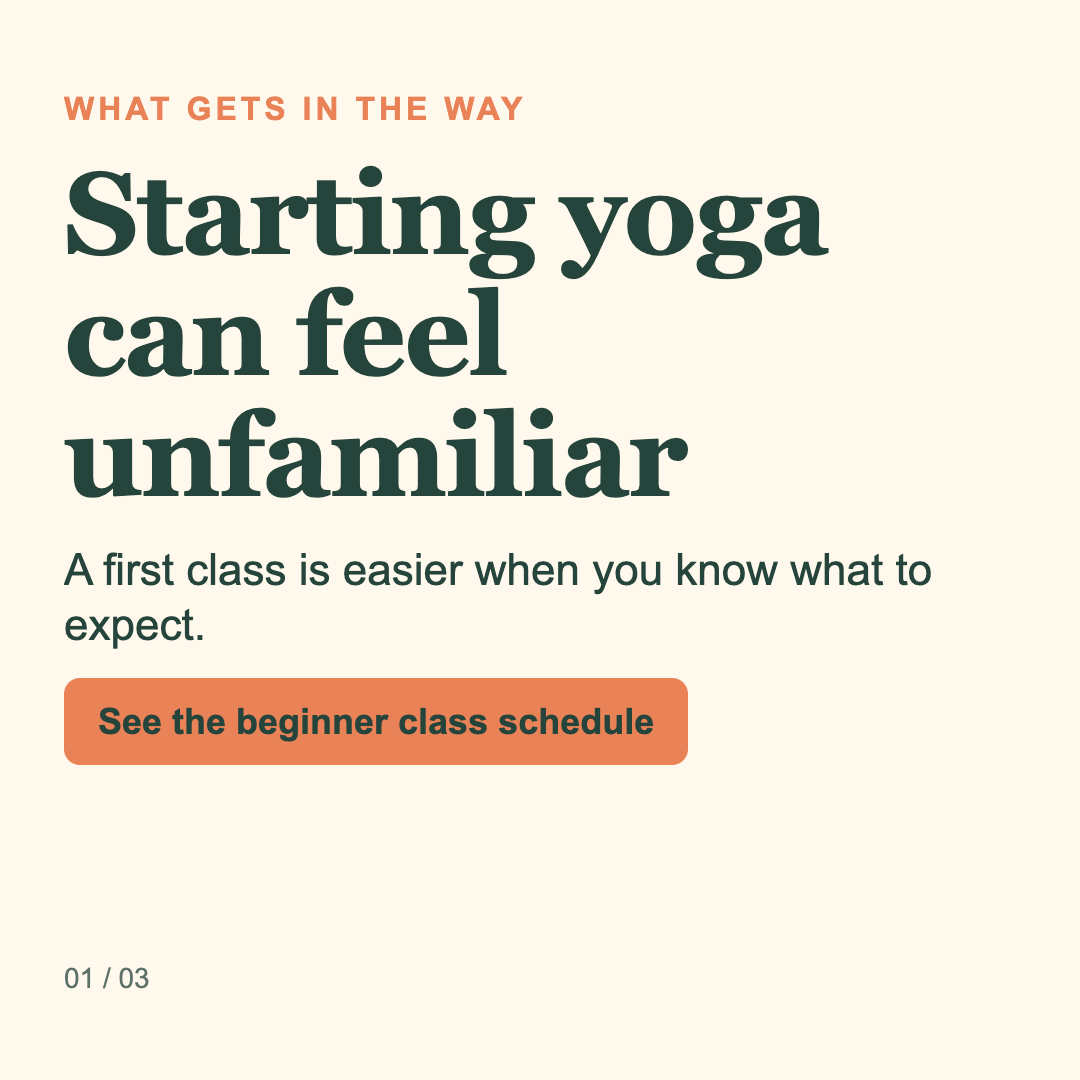
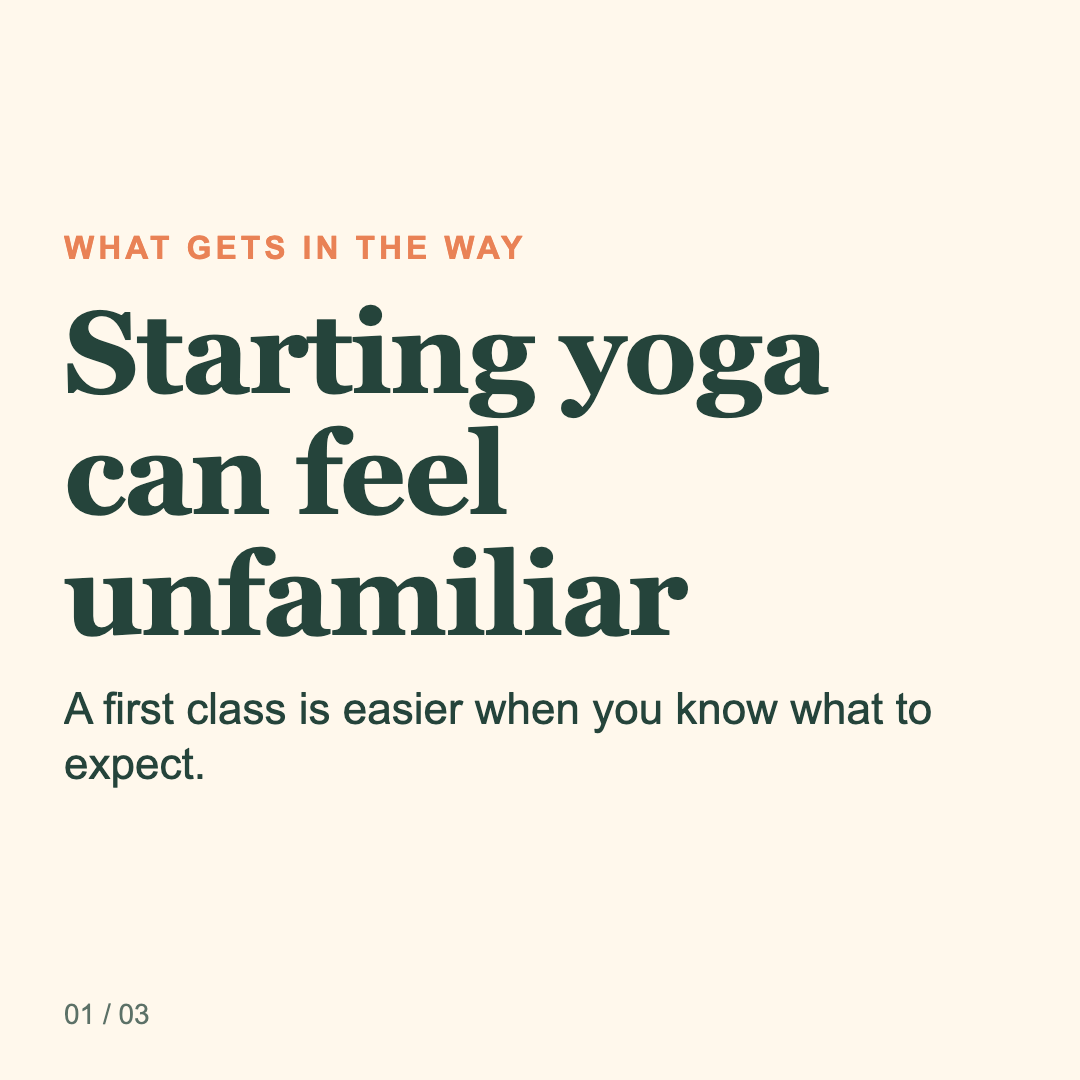
All Sorted Content Studio 1.0.1
Carousel content centered in the safe area, slide counter pinned to the bottom, CTA button on the last slide only by default (showCta to opt in). Every tool list now names all five tools.

diff --git a/tools/carousel-builder/lib/slide-renderer.js b/tools/carousel-builder/lib/slide-renderer.js
@@ -23,18 +23,22 @@ function slideMarkup(slide, index, total, preset, palette) {
   const accent = safeCss(theme.accent, DEFAULTS.accent);
   const display = safeCss(theme.fonts?.display, DEFAULTS.display);
   const body = safeCss(theme.fonts?.body, DEFAULTS.body);
+  const safeTop = preset.safeTop ? Math.round(preset.safeTop * preset.height) : 90;
+  const safeBottom = preset.safeBottom ? Math.round(preset.safeBottom * preset.height) : 150;
   const eyebrow = slide.eyebrow || slide.stepLabel || `IDEA ${String(index + 1).padStart(2, '0')}`;
   const headline = slide.headline || slide.heading || `Slide ${index + 1}`;
-  const cta = slide.cta || 'Learn more';
+  const showCta = slide.showCta === true || (slide.showCta !== false && index === total - 1);
+  const cta = showCta ? (slide.cta || 'Learn more') : '';
   return `<!doctype html><html><head><meta charset="utf-8"><style>
   *{box-sizing:border-box}html,body{margin:0;width:${preset.width}px;height:${preset.height}px;overflow:hidden}
-  #canvas{width:100%;height:100%;padding:90px 64px 84px;display:flex;flex-direction:column;align-items:flex-start;justify-content:center;gap:26px;overflow:hidden;background:linear-gradient(140deg,${background},${background});color:${ink};font-family:${body},sans-serif}
+  #canvas{position:relative;width:100%;height:100%;padding:90px 64px 150px;display:flex;flex-direction:column;align-items:flex-start;justify-content:center;gap:26px;overflow:hidden;background:linear-gradient(140deg,${background},${background});color:${ink};font-family:${body},sans-serif}
+  #content{position:absolute;left:64px;right:64px;top:${safeTop}px;bottom:${safeBottom}px;display:flex;flex-direction:column;align-items:flex-start;justify-content:center;gap:26px;overflow:hidden}
   #eyebrow{max-width:900px;color:${accent};font:700 32px/1.2 ${body},sans-serif;letter-spacing:4px;overflow-wrap:anywhere}
   #headline{max-width:900px;max-height:420px;overflow:hidden;font:700 ${START_HEADLINE_SIZE}px/1.04 ${display},serif;letter-spacing:-2px;overflow-wrap:anywhere}
   #body{max-width:900px;max-height:240px;overflow:hidden;font:400 44px/1.25 ${body},sans-serif;white-space:pre-line;overflow-wrap:anywhere}
   #cta{display:inline-block;background:${accent};color:${ink};border:2px solid ${accent};border-radius:16px;padding:20px 32px;font:700 36px/1.2 ${body},sans-serif;max-width:900px;overflow-wrap:anywhere}
-  #counter{margin-top:auto;color:${ink};font:400 28px/1.2 ${body},sans-serif;opacity:.75}
-  </style></head><body><main id="canvas"><div id="eyebrow">${escapeHtml(eyebrow)}</div><div id="headline">${escapeHtml(headline)}</div><div id="body">${escapeHtml(slide.body || '')}</div>${cta ? `<div id="cta">${escapeHtml(cta)}</div>` : ''}<div id="counter">${String(index + 1).padStart(2, '0')} / ${String(total).padStart(2, '0')}</div></main></body></html>`;
+  #counter{position:absolute;left:64px;right:64px;bottom:48px;color:${ink};font:400 28px/1.2 ${body},sans-serif;opacity:.75}
+  </style></head><body><main id="canvas"><section id="content"><div id="eyebrow">${escapeHtml(eyebrow)}</div><div id="headline">${escapeHtml(headline)}</div><div id="body">${escapeHtml(slide.body || '')}</div>${cta ? `<div id="cta">${escapeHtml(cta)}</div>` : ''}</section><div id="counter">${String(index + 1).padStart(2, '0')} / ${String(total).padStart(2, '0')}</div></main></body></html>`;
 }
 
 async function renderSlides(slides, preset, palette, sharedBrowser = null) {
@@ -52,13 +56,17 @@ async function renderSlides(slides, preset, palette, sharedBrowser = null) {
           if (headline.scrollWidth <= headline.clientWidth + 1 && headline.scrollHeight <= headline.clientHeight + 4) break;
         }
         const elements = {};
-        for (const name of ['eyebrow', 'headline', 'body', 'cta', 'counter']) {
+        for (const name of ['content', 'eyebrow', 'headline', 'body', 'cta', 'counter']) {
           const element = document.querySelector(`#${name}`);
           if (!element) continue;
           const rect = element.getBoundingClientRect();
           const canvasRect = canvas.getBoundingClientRect();
           elements[name] = { x: Math.round(rect.x - canvasRect.x), y: Math.round(rect.y - canvasRect.y), width: Math.round(rect.width), height: Math.round(rect.height), scrollWidth: element.scrollWidth, scrollHeight: element.scrollHeight, clientWidth: element.clientWidth, clientHeight: element.clientHeight, fontSize: parseFloat(getComputedStyle(element).fontSize), background: getComputedStyle(element).backgroundColor, border: getComputedStyle(element).borderTopWidth };
         }
+        const children = [...document.querySelector('#content').children].map((element) => element.getBoundingClientRect());
+        const groupTop = Math.min(...children.map((rect) => rect.top)) - canvas.getBoundingClientRect().top;
+        const groupBottom = Math.max(...children.map((rect) => rect.bottom)) - canvas.getBoundingClientRect().top;
+        elements.contentGroup = { y: Math.round(groupTop), height: Math.round(groupBottom - groupTop), centerY: (groupTop + groupBottom) / 2 };
         const overflow = {};
         for (const [name, value] of Object.entries(elements)) overflow[name] = value.scrollWidth > value.clientWidth + 1 || value.scrollHeight > value.clientHeight + 4 || value.x < 64 || value.x + value.width > canvas.clientWidth - 64 || value.y < 0 || value.y + value.height > canvas.clientHeight;
         const textNames = Object.keys(elements).filter((name) => ['eyebrow', 'headline', 'body', 'cta'].includes(name));

diff --git a/tools/carousel-builder/tests/core.test.js b/tools/carousel-builder/tests/core.test.js
@@ -16,7 +16,7 @@ async function launchBrowser() { for(const executablePath of browserPaths()){try
 const { PRESETS, appendManifest, makeSpec } = require('../lib/core');
 const { renderSlides, slideMarkup } = require('../lib/slide-renderer');
 
-const testRoot = path.join(__dirname, '..', 'workspace', '.test-data');
+const testRoot = path.join(__dirname, '..', '..', '..', '.test-data', 'carousel-builder');
 
 test('Meta presets use the required pixel dimensions and safe zones', () => {
   assert.deepEqual([PRESETS.square.width, PRESETS.square.height], [1080, 1080]);
@@ -36,10 +36,18 @@ test('carousel CSS uses brand colors and fonts without an off-brand gradient', (
   assert.match(html,/font:700 120px\/1\.04 Georgia,serif/);
   assert.match(html,/font:400 44px\/1\.25 Arial,sans-serif/);
 });
+test('CTA appears on the last slide by default and earlier slides can opt in', () => {
+  const first = slideMarkup({ headline: 'First', cta: 'Book now' }, 0, 3, PRESETS.square, 'ocean');
+  const optedIn = slideMarkup({ headline: 'Second', cta: 'Book now', showCta: true }, 1, 3, PRESETS.square, 'ocean');
+  const last = slideMarkup({ headline: 'Last', cta: 'Book now' }, 2, 3, PRESETS.square, 'ocean');
+  assert.doesNotMatch(first, /id="cta"/);
+  assert.match(optedIn, /id="cta">Book now/);
+  assert.match(last, /id="cta">Book now/);
+});
 test('rendered slides meet the phone legibility floors and stay within measured safe boxes', async () => {
   const slides = [
     { stepLabel: 'A BETTER WAY', heading: 'Small steps make mornings easier', body: 'Choose one part of your morning to make easier.', cta: 'Book a class' },
-    { stepLabel: 'ONE PRACTICE', heading: 'Make room for a slower start', body: 'Pick one change you can repeat tomorrow.', cta: 'Book a class' },
+    { stepLabel: 'ONE PRACTICE', heading: 'Make room for a slower start', body: 'Pick one change you can repeat tomorrow.', cta: 'Book a class', showCta: true },
     { stepLabel: 'THE OUTCOME', heading: 'Begin with one gentle class', body: 'Try one class before changing your whole routine.', cta: 'Book a class' },
   ];
   const browser = await launchBrowser();
@@ -59,12 +67,16 @@ test('rendered slides meet the phone legibility floors and stay within measured 
     assert.ok(result.headlineFontSize >= 72 && result.headlineFontSize <= 120);
     assert.ok(result.elements.headline.fontSize >= 72);
     assert.ok(result.elements.body.fontSize >= 44);
-    assert.ok(result.elements.cta.background !== 'rgba(0, 0, 0, 0)');
+    assert.ok(result.elements.content);
+    assert.ok(Math.abs(result.elements.contentGroup.centerY - 510) <= 1);
+    assert.equal(Boolean(result.elements.cta), result === rendered[1] || result === rendered[2]);
+    if (result.elements.cta) assert.ok(result.elements.cta.background !== 'rgba(0, 0, 0, 0)');
     assert.equal(result.overflow.textOverlap, false);
     assert.ok(result.elements.eyebrow.fontSize >= 32);
     assert.ok(result.elements.counter.fontSize >= 28);
+    assert.equal(result.elements.counter.y + result.elements.counter.height, 1032);
     assert.deepEqual(Object.values(result.overflow).filter(Boolean), []);
-    for (const name of ['eyebrow', 'headline', 'body', 'cta', 'counter']) {
+    for (const name of ['eyebrow', 'headline', 'body', 'counter', ...(result.elements.cta ? ['cta'] : [])]) {
       const box = result.elements[name];
       assert.ok(box.x >= 64 && box.x + box.width <= 1016, `${name} remains inside 64px safe margins`);
       assert.ok(box.scrollWidth <= box.clientWidth && box.scrollHeight <= box.clientHeight + 4, `${name} fits its measured client box`);

diff --git a/tools/carousel-builder/tests/browser-proof.js b/tools/carousel-builder/tests/browser-proof.js
@@ -48,11 +48,11 @@ async function main() {
     if (rejected.status !== 500 || !/Please shorten the headline\./.test(rejected.body.error || '')) throw new Error(`Overflow export did not fail with the required message: ${JSON.stringify(rejected)}`);
     await page.getByRole('button', { name: /Export PNGs/ }).click();
     await page.getByText(/Slides exported at 1080 × 1080/).waitFor();
-    const manifestPath = path.join(root, 'workspace/creatives/manifest.json');
+    const manifestPath = path.join(process.env.CAROUSEL_WORKSPACE || path.join(root, '.test-data/browser-workspace'), 'creatives/manifest.json');
     const manifest = JSON.parse(await fs.readFile(manifestPath, 'utf8'));
     const specLink = page.locator('a[download]').getAttribute('href');
     const specHref = await specLink;
-    const specPath = path.join(root, decodeURIComponent(new URL(specHref, base).pathname.replace(/^\/workspace\//, 'workspace/')));
+    const specPath = path.join(process.env.CAROUSEL_WORKSPACE || path.join(root, '.test-data/browser-workspace'), 'creatives', path.basename(decodeURIComponent(new URL(specHref, base).pathname)));
     const spec = JSON.parse(await fs.readFile(specPath, 'utf8'));
     if (spec.cards.length !== 3) throw new Error(`Expected 3 cards, found ${spec.cards.length}`);
     if (manifest.files.length < 3) throw new Error('The manifest does not contain the three exported slides.');
@@ -63,9 +63,11 @@ async function main() {
     }
     const proofEntries = manifest.files.filter(entry => exported.some(file => path.basename(file) === entry.file)).slice(-3);
     if (proofEntries.length !== 3) throw new Error('The manifest is missing per-slide measurement records.');
-    for (const entry of proofEntries) {
+    for (const [index, entry] of proofEntries.entries()) {
       if (entry.fontSize < 72 || entry.fontSize > 120 || entry.minFontSize !== 72) throw new Error(`${entry.file} has an invalid headline size floor.`);
       if (entry.measurements.headline.fontSize !== entry.fontSize || entry.measurements.body.fontSize < 44 || entry.measurements.eyebrow.fontSize < 32 || entry.measurements.counter.fontSize < 28) throw new Error(`${entry.file} has invalid measured text sizes.`);
+      if (entry.showCta !== (index === 2) || Boolean(entry.measurements.cta) !== (index === 2)) throw new Error(`${entry.file} has unexpected CTA placement.`);
+      if (Math.abs(entry.measurements.contentGroup.centerY - 510) > 1 || entry.measurements.counter.y + entry.measurements.counter.height !== 1032) throw new Error(`${entry.file} content is not centered or its counter is not pinned at the bottom.`);
       if (Object.values(entry.overflow).some(Boolean)) throw new Error(`${entry.file} records text overflow.`);
     }
     const readySpec = { ...spec, pageId: '1234567', message: 'A sample primary message', link: 'https://example.com/offer', cards: spec.cards.map((card, i) => ({ ...card, image: exported[i] })) };

diff --git a/tools/carousel-builder/server.js b/tools/carousel-builder/server.js
@@ -52,7 +52,7 @@ app.post('/api/export', async (req, res) => {
         image = sharp(source).resize(preset.width, preset.height, { fit: 'cover' }).composite([{ input: renderedSlides[i].png }]);
       }
       await image.png().toFile(path.join(dir, filename));
-      files.push({ file: filename, hook: slides[i].heading || headlineHook || `Slide ${i + 1}`, width: preset.width, height: preset.height, status: 'rendered', template: selectedPalette||palette, fontSize: renderedSlides[i].headlineFontSize, minFontSize: 72, layoutBox: [64 / preset.width, 0.19, 820 / preset.width, 0.64], measurements: renderedSlides[i].elements, overflow: renderedSlides[i].overflow });
+      files.push({ file: filename, hook: slides[i].heading || headlineHook || `Slide ${i + 1}`, width: preset.width, height: preset.height, status: 'rendered', showCta: slides[i].showCta === true || (slides[i].showCta !== false && i === slides.length - 1), template: selectedPalette||palette, fontSize: renderedSlides[i].headlineFontSize, minFontSize: 72, layoutBox: [64 / preset.width, 0.19, 820 / preset.width, 0.64], measurements: renderedSlides[i].elements, overflow: renderedSlides[i].overflow });
     }
     await appendManifest(dir, files, { offer, ratio: preset.ratio });
     const spec = makeSpec({ title, pageId, link, message, slides: files.map((file, i) => ({ ...file, heading: slides[i].heading })) });

diff --git a/docs/DATA-FORMATS.md b/docs/DATA-FORMATS.md
@@ -68,6 +68,8 @@ Every template reads `brandName`, `brand`, `hook`, `headline`, `body`, and `cta`
 
 ## carousel-data.json
 
+Each slide may include `showCta: true` to show its CTA button. By default, only the final slide shows a button; earlier slides omit it even when they have CTA copy in their data. The final slide shows its button unless `showCta` is explicitly `false`.
+
 Each slide accepts `eyebrow` (or legacy alias `stepLabel`), `headline` (or `heading`), `body`, `cta`, and optional `imageData` (a data URI used by the interactive builder to place a photo behind the rendered slide). Supply `body` and `cta` as separate flow blocks. Slides 1 and 2 each need one short supporting line under the headline, one idea per slide. Palette and fonts come from `brand.json`; optional `palette` may override the brand with `background`, `ink`, `accent`, and `fonts`.
 
 ```json
@@ -75,8 +77,8 @@ Each slide accepts `eyebrow` (or legacy alias `stepLabel`), `headline` (or `head
   "title": "sunrise-yoga-beginner-class",
   "preset": "square",
   "slides": [
-    { "eyebrow": "WHAT GETS IN THE WAY", "headline": "Starting yoga can feel unfamiliar", "body": "A first class is easier when you know what to expect.", "cta": "See the beginner class schedule" },
-    { "eyebrow": "A BETTER WAY", "headline": "Begin with a gentle class", "body": "A small-group introduction gives you room to learn.", "cta": "See the beginner class schedule" },
+    { "eyebrow": "WHAT GETS IN THE WAY", "headline": "Starting yoga can feel unfamiliar", "body": "A first class is easier when you know what to expect." },
+    { "eyebrow": "A BETTER WAY", "headline": "Begin with a gentle class", "body": "A small-group introduction gives you room to learn." },
     { "eyebrow": "THE OUTCOME", "headline": "Learn a few new movements", "body": "Try one welcoming class at your own pace.", "cta": "See the beginner class schedule" }
   ]
 }

diff --git a/DIRECTOR.md b/DIRECTOR.md
@@ -20,13 +20,13 @@ Generate `brand/brand.json` from the source-of-truth Markdown using the schema i
 
 ## The five tools and workers
 
-- HookLab and `content-hook-writer` return ten ranked hooks in `copy/hooks.md`.
-- `content-copywriter` returns primary text, headline, and CTA in `copy/ads.md`.
-- Ad Images and `content-image-maker` return checked image variants.
-- Carousel Builder and `content-carousel-maker` return three to seven slides and a carousel spec.
-- HeyGen Ad Videos and `content-video-maker` return three scripts, and render only when connected and the user approved the cost.
-- Video Editor and `content-video-editor` return local trimmed, resized, or captioned clips under `video/`.
-- `content-checker` returns the QA table and contact sheet path.
+- HookLab, with `content-hook-writer`, returns ten ranked hooks in `copy/hooks.md`.
+- Ad Images, with `content-image-maker`, returns checked image variants.
+- Carousel Builder, with `content-carousel-maker`, returns three to seven slides and a carousel spec.
+- HeyGen Ad Videos, with `content-video-maker`, returns three scripts, and renders only when connected and the user approved the cost.
+- Video Editor, with `content-video-editor`, returns local trimmed, resized, or captioned clips under `video/`.
+
+The supporting `content-copywriter` returns primary text, headline, and CTA in `copy/ads.md`. The `content-checker` returns the QA table and contact sheet path.
 
 ## Brief and production
 

diff --git a/agents/content-carousel-maker.md b/agents/content-carousel-maker.md
@@ -4,7 +4,7 @@ description: Builds and checks a short, ordered ad carousel.
 model: inherit
 ---
 
-Read the shared brief, brand file, and `CONTENT_STUDIO_DIR/docs/DATA-FORMATS.md`. Make 3 to 7 slides with one idea each. Slides 1 and 2 each need one short supporting line under the headline. Keep body and CTA as separate fields; the renderer places the CTA button in flow below the body. Save files using the `DIRECTOR.md` pattern `<slug>_<nn>_<template-or-carousel>_<ratio>.png`.
+Read the shared brief, brand file, and `CONTENT_STUDIO_DIR/docs/DATA-FORMATS.md`. Make 3 to 7 slides with one idea each. Slides 1 and 2 each need one short supporting line under the headline. Keep body and CTA as separate fields. Only the final slide shows a CTA button by default; set `showCta: true` on an earlier slide when it needs a button. Save files using the `DIRECTOR.md` pattern `<slug>_<nn>_<template-or-carousel>_<ratio>.png`.
 
 Exact commands:
 

diff --git a/CHANGELOG.md b/CHANGELOG.md
@@ -2,6 +2,8 @@
 
 ## 1.0.1
 
+- Centered carousel content in the safe area, kept counters at the bottom, and showed CTA buttons only on the last slide by default.
+- Updated the example proof run and confirmed the five tools: HookLab, Ad Images, Carousel Builder, HeyGen Ad Videos, and Video Editor.
 - Added complete example brand setup and worker data-format documentation.
 - Standardized creative filenames and added explicit, checked CTA buttons.
 - Matched carousel themes to the shared brand and added mixed creative handoffs.

diff --git a/skill/SKILL.md b/skill/SKILL.md
@@ -5,6 +5,8 @@ description: Make ads, ad creative, carousels, hooks, ad images, video ads, or e
 
 # All Sorted Content Studio
 
+The five tools are HookLab, Ad Images, Carousel Builder, HeyGen Ad Videos, and Video Editor.
+
 Read `CONTENT_STUDIO_DIR/DIRECTOR.md` and hand the full job to `content-director`. Collect the goal, offer, audience, formats, count, and evidence. If there is no helper-agent support, follow the director protocol in order. Never upload, spend, or touch an ad account.
 
 Examples:

diff --git a/INSTALL-PROMPT.md b/INSTALL-PROMPT.md
@@ -1,5 +1,7 @@
 # Install All Sorted Content Studio
 
+The studio includes five tools: HookLab, Ad Images, Carousel Builder, HeyGen Ad Videos, and Video Editor.
+
 Copy this prompt into your agent system:
 
 ```text
